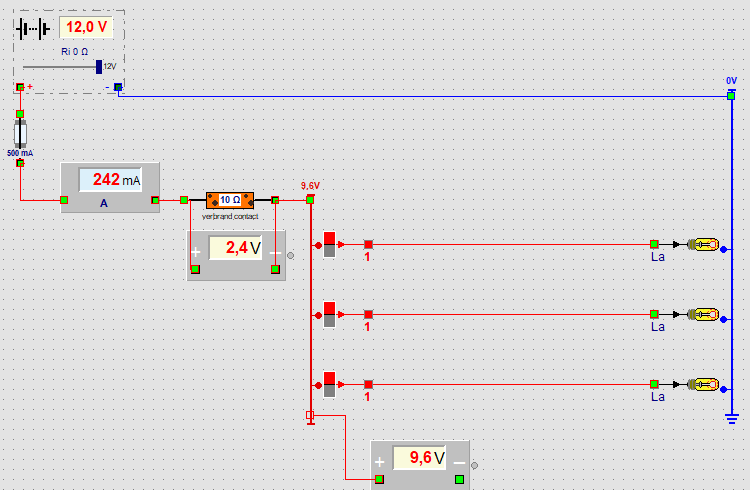
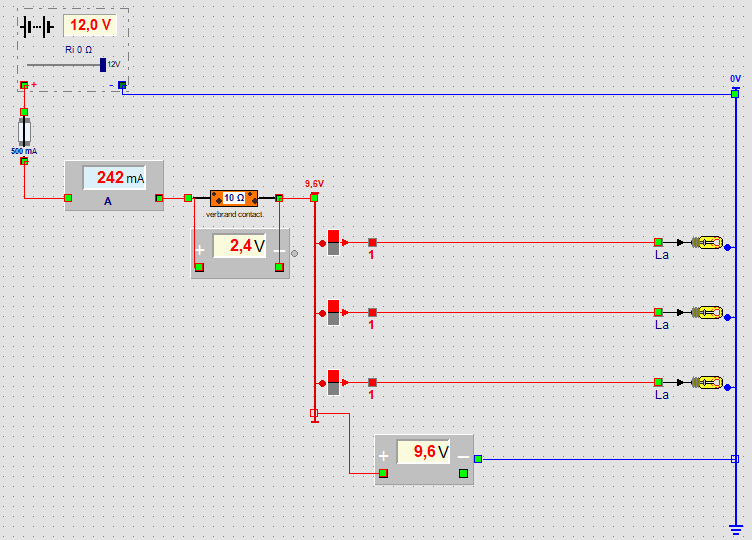
Les 24: nieuw beeld van het aangepaste paneel, contact begint als slecht contact

Changed region(s): [[0.0, 0.0, 0.9813, 1.0], [0.736, 0.4898, 0.7667, 0.5204]]

diff --git a/projects/LogicCEF/helpsrc/de/les24.html b/projects/LogicCEF/helpsrc/de/les24.html
@@ -15,7 +15,7 @@
     <li>Die <a href="voeding.html#bron">Quelle</a> steht auf <b>12&nbsp;V</b>, ohne Innenwiderstand (Ri = 0&nbsp;&Omega;).</li>
     <li>Die + Klemme führt über eine <a href="voeding.html#zekering">Sicherung</a> von 500&nbsp;mA, das
       <a href="voeding.html#ampmeter">Milliamperemeter</a> und einen <a href="voeding.html#weerstand">Kontakt</a> zur + Schiene.
-      Der Kontakt beginnt als <b>guter Kontakt</b>.</li>
+      Der Kontakt beginnt als <b>schlechter Kontakt</b>.</li>
     <li>Das obere <a href="voeding.html#voltmeter">Voltmeter</a> liegt <b>über dem Kontakt</b>: + an der Klemme auf der
       Seite der Quelle, &minus; an der Klemme auf der Seite der Schiene. Es misst den Unterschied: den <b>Spannungsabfall</b>.</li>
     <li>Das untere Voltmeter misst die Spannung an der + Schiene: was für die Lampen übrig bleibt.</li>
@@ -45,8 +45,8 @@
   <h2>Ausprobieren</h2>
   <ol class="steps">
     <li>Starten Sie die Simulation und schalten Sie die drei Schalter ein. Notieren Sie den Strom und die beiden Spannungen.</li>
-    <li>Klicken Sie mit der rechten Maustaste auf den Kontakt und wählen Sie <b>Art &rsaquo; langer dünner Draht</b>,
-      danach <b>schlechter Kontakt</b> und <b>verbrannter Kontakt</b>. Notieren Sie jedes Mal die Messgeräte und achten
+    <li>Klicken Sie mit der rechten Maustaste auf den Kontakt und wählen Sie <b>Art &rsaquo; guter Kontakt</b>,
+      danach <b>langer dünner Draht</b> und <b>verbrannter Kontakt</b>. Notieren Sie jedes Mal die Messgeräte und achten
       Sie auf die Farbe des Blocks.</li>
     <li>Zählen Sie jedes Mal die beiden Spannungen zusammen.</li>
   </ol>

diff --git a/projects/LogicCEF/helpsrc/fr/les24.html b/projects/LogicCEF/helpsrc/fr/les24.html
@@ -15,7 +15,7 @@
     <li>La <a href="voeding.html#bron">source</a> est réglée sur <b>12&nbsp;V</b>, sans résistance interne (Ri = 0&nbsp;&Omega;).</li>
     <li>La borne + passe par un <a href="voeding.html#zekering">fusible</a> de 500&nbsp;mA, le
       <a href="voeding.html#ampmeter">milliampèremètre</a> et un <a href="voeding.html#weerstand">contact</a> jusqu&rsquo;au rail +.
-      Le contact commence comme <b>bon contact</b>.</li>
+      Le contact commence comme <b>mauvais contact</b>.</li>
     <li>Le <a href="voeding.html#voltmeter">voltmètre</a> du haut est branché <b>aux bornes du contact</b>&nbsp;: + sur la
       borne du côté de la source, &minus; sur la borne du côté du rail. Il mesure la différence&nbsp;: la <b>chute de tension</b>.</li>
     <li>Le voltmètre du bas mesure la tension sur le rail +&nbsp;: ce qui reste pour les lampes.</li>
@@ -46,7 +46,7 @@
   <h2>Essayez</h2>
   <ol class="steps">
     <li>Démarrez la simulation et allumez les trois interrupteurs. Notez le courant et les deux tensions.</li>
-    <li>Clic droit sur le contact, puis <b>Type &rsaquo; long fil fin</b>, ensuite <b>mauvais contact</b> et
+    <li>Clic droit sur le contact, puis <b>Type &rsaquo; bon contact</b>, ensuite <b>long fil fin</b> et
       <b>contact brûlé</b>. Notez chaque fois les mesures et regardez la couleur du bloc.</li>
     <li>Additionnez chaque fois les deux tensions.</li>
   </ol>

diff --git a/projects/LogicCEF/helpsrc/nl/les24.html b/projects/LogicCEF/helpsrc/nl/les24.html
@@ -15,7 +15,7 @@
     <li>De <a href="voeding.html#bron">bron</a> staat op <b>12&nbsp;V</b>, zonder inwendige weerstand (Ri = 0&nbsp;&Omega;).</li>
     <li>De + klem gaat via een <a href="voeding.html#zekering">zekering</a> van 500&nbsp;mA, de
       <a href="voeding.html#ampmeter">milliampèremeter</a> en een <a href="voeding.html#weerstand">contact</a> naar de + rail.
-      Het contact begint als <b>goed contact</b>.</li>
+      Het contact begint als <b>slecht contact</b>.</li>
     <li>De bovenste <a href="voeding.html#voltmeter">voltmeter</a> staat <b>over het contact</b>: + aan de klem aan de kant
       van de bron, &minus; aan de klem aan de kant van de rail. Hij meet het verschil: de <b>spanningsval</b>.</li>
     <li>De onderste voltmeter meet de spanning op de + rail: wat er overblijft voor de lampen.</li>
@@ -45,7 +45,7 @@
   <h2>Probeer het</h2>
   <ol class="steps">
     <li>Start de simulatie en zet de drie schakelaars aan. Noteer de stroom en de twee spanningen.</li>
-    <li>Rechtsklik op het contact en kies <b>Soort &rsaquo; lange dunne draad</b>, daarna <b>slecht contact</b> en
+    <li>Rechtsklik op het contact en kies <b>Soort &rsaquo; goed contact</b>, daarna <b>lange dunne draad</b> en
       <b>verbrand contact</b>. Noteer telkens de meters en kijk naar de kleur van het blokje.</li>
     <li>Tel telkens de twee spanningen op.</li>
   </ol>

diff --git a/projects/LogicCEF/helpsrc/en/les24.html b/projects/LogicCEF/helpsrc/en/les24.html
@@ -15,7 +15,7 @@
     <li>The <a href="voeding.html#bron">source</a> is set to <b>12&nbsp;V</b>, without internal resistance (Ri = 0&nbsp;&Omega;).</li>
     <li>The + terminal goes through a 500&nbsp;mA <a href="voeding.html#zekering">fuse</a>, the
       <a href="voeding.html#ampmeter">milliammeter</a> and a <a href="voeding.html#weerstand">contact</a> to the + rail.
-      The contact starts as a <b>good contact</b>.</li>
+      The contact starts as a <b>poor contact</b>.</li>
     <li>The top <a href="voeding.html#voltmeter">voltmeter</a> sits <b>across the contact</b>: + on the terminal on the
       source side, &minus; on the terminal on the rail side. It measures the difference: the <b>voltage drop</b>.</li>
     <li>The bottom voltmeter measures the voltage on the + rail: what is left for the lamps.</li>
@@ -45,7 +45,7 @@
   <h2>Try it</h2>
   <ol class="steps">
     <li>Start the simulation and turn on the three switches. Write down the current and the two voltages.</li>
-    <li>Right-click the contact and choose <b>Kind &rsaquo; long thin wire</b>, then <b>poor contact</b> and
+    <li>Right-click the contact and choose <b>Kind &rsaquo; good contact</b>, then <b>long thin wire</b> and
       <b>burnt contact</b>. Write down the meters each time and look at the colour of the block.</li>
     <li>Each time, add up the two voltages.</li>
   </ol>
